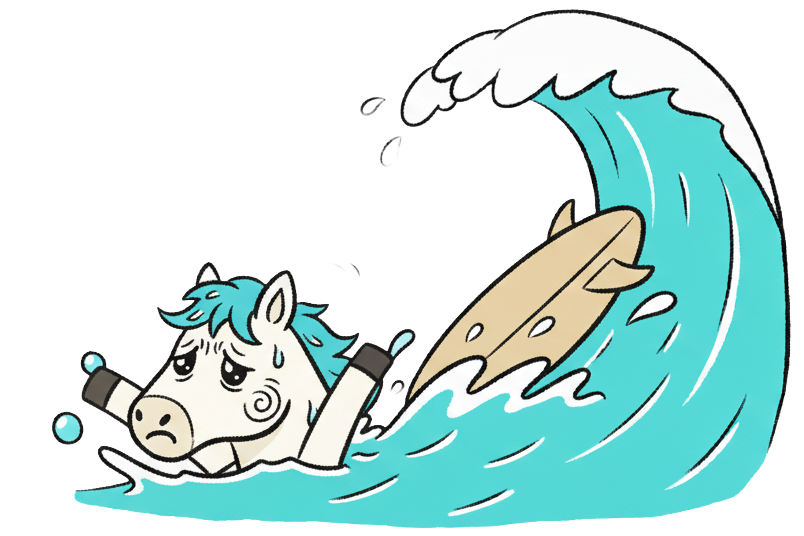
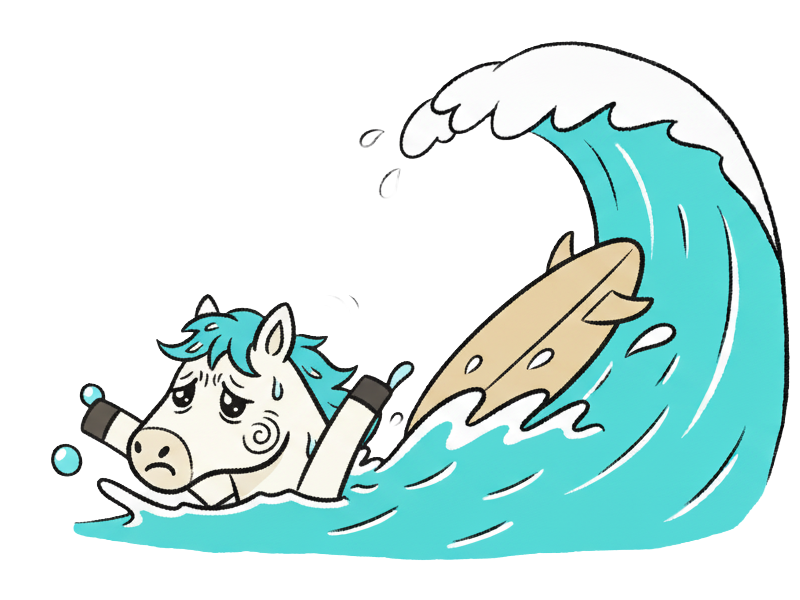
feat: update loading, error images

diff --git a/src/app/(tabs)/chapel/index.tsx b/src/app/(tabs)/chapel/index.tsx
@@ -1,6 +1,6 @@
 import { SemesterType } from '@rusaint/react-native';
 import { Image } from 'expo-image';
-import { useNavigation } from 'expo-router';
+import { Stack } from 'expo-router';
 import { useEffect, useState } from 'react';
 import { Platform, RefreshControl, ScrollView, View } from 'react-native';
 import Animated, {
@@ -11,7 +11,9 @@ import Animated, {
 import { SafeAreaView } from 'react-native-safe-area-context';
 import { StyleSheet } from 'react-native-unistyles';
 
+import emptyImage from '@/assets/empty.png';
 import errorImage from '@/assets/error.png';
+import loadingImage from '@/assets/loading.png';
 import { Attendance } from '@/components/chapel/Attendance';
 import { ChapelProgress } from '@/components/chapel/ChapelProgress';
 import { ChapelSeatmapView } from '@/components/chapel/ChapelSeatmapView';
@@ -119,7 +121,6 @@ export default function Index() {
     selectedSemester.year,
     selectedSemester.semester,
   );
-  const navigation = useNavigation();
 
   const scrollY = useSharedValue(0);
   const pullDistance = useSharedValue(0);
@@ -165,6 +166,7 @@ export default function Index() {
               <SsurfLined height={32} width={32} />
               <ThemedText typography="heading3xl">채플</ThemedText>
             </View>
+            <ThemedText typography="labelMd">{semesterToString(selectedSemester)}</ThemedText>
           </View>
           <Space gap={1} />
           <View
@@ -180,26 +182,38 @@ export default function Index() {
             {error ? (
               error.message === RUSAINT_NO_CHAPEL ? (
                 <>
+                  <Image
+                    contentFit="contain"
+                    source={emptyImage}
+                    style={{ width: 150, height: 150, marginBottom: 16 }}
+                  />
                   <ThemedText typography="headingLg">선택한 학기의 채플 정보가 없어요.</ThemedText>
                   <ThemedText typography="bodyLg">다른 학기를 선택해주세요.</ThemedText>
                 </>
               ) : (
                 <>
                   <Image
+                    contentFit="contain"
                     source={errorImage}
                     style={{ width: 150, height: 150, marginBottom: 16 }}
                   />
                   <ThemedText color="error" typography="headingLg">
-                    정보를 가져오는 중 오류가 발생했어요
+                    정보를 가져오는 중 오류가 발생했어요.
                   </ThemedText>
                   <ThemedText typography="bodyLg">아래로 당겨 다시 시도해보세요.</ThemedText>
                   <ThemedText typography="bodySm">{error.message}</ThemedText>
                 </>
               )
             ) : (
-              <ThemedText typography="bodyLg">
-                정보를 가져오는 중이에요. 잠시만 기다려주세요.
-              </ThemedText>
+              <>
+                <Image
+                  contentFit="contain"
+                  source={loadingImage}
+                  style={{ width: 150, height: 150, marginBottom: 16 }}
+                />
+                <ThemedText typography="headingLg">정보를 가져오는 중이에요.</ThemedText>
+                <ThemedText typography="bodyLg">잠시만 기다려주세요.</ThemedText>
+              </>
             )}
           </View>
         </SafeAreaView>
@@ -212,118 +226,122 @@ export default function Index() {
     SemesterType.One,
   ]);
 
-  navigation.setOptions({
-    headerShown: true,
-    headerTransparent: true,
-    title: '채플',
-    headerTitle: () => <></>,
-    headerRight: () => (
-      <SemesterSelector
-        onChange={(index) => setSelectedSemester(semesters[index])}
-        selectedIndex={semesters.findIndex(
-          (semester) =>
-            semester.year === selectedSemester.year &&
-            semester.semester === selectedSemester.semester,
-        )}
-        semesters={semesters}
-      />
-    ),
-  });
-
   return (
-    <View style={styles.root}>
-      <AnimatedScrollView
-        contentContainerStyle={styles.scrollView}
-        onScroll={scrollHandler}
-        refreshControl={
-          <RefreshControl
-            onRefresh={handleRefresh}
-            refreshing={isSyncing}
-            style={{ visibility: 'hidden' }}
-          />
-        }
-        scrollEventThrottle={16}
-      >
-        <SafeAreaView style={styles.container}>
-          {Platform.OS === 'ios' && <Space gap={2} />}
-          <View style={styles.topView}>
-            <View style={styles.titleContainer}>
-              <SsurfLined height={32} width={32} />
-              <ThemedText typography="heading3xl">채플</ThemedText>
+    <>
+      <Stack.Screen
+        options={{
+          headerShown: true,
+          headerTransparent: true,
+          title: '채플',
+          headerTitle: () => <></>,
+          headerRight: () => (
+            <SemesterSelector
+              onChange={(index) => setSelectedSemester(semesters[index])}
+              selectedIndex={semesters.findIndex(
+                (semester) =>
+                  semester.year === selectedSemester.year &&
+                  semester.semester === selectedSemester.semester,
+              )}
+              semesters={semesters}
+            />
+          ),
+        }}
+      />
+
+      <View style={styles.root}>
+        <AnimatedScrollView
+          contentContainerStyle={styles.scrollView}
+          onScroll={scrollHandler}
+          refreshControl={
+            <RefreshControl
+              onRefresh={handleRefresh}
+              refreshing={isSyncing}
+              style={{ visibility: 'hidden' }}
+            />
+          }
+          scrollEventThrottle={16}
+        >
+          <SafeAreaView style={styles.container}>
+            {Platform.OS === 'ios' && <Space gap={2} />}
+            <View style={styles.topView}>
+              <View style={styles.titleContainer}>
+                <SsurfLined height={32} width={32} />
+                <ThemedText typography="heading3xl">채플</ThemedText>
+              </View>
+              <ThemedText typography="labelMd">{semesterToString(selectedSemester)}</ThemedText>
+              <Space gap={1} />
+              <View>
+                {attendanceLeft <= 0 ? (
+                  <ThemedText color="fgPrimary" typography="headingXl">
+                    축하해요! 이번 학기 PASS했어요!
+                  </ThemedText>
+                ) : passable ? (
+                  <ThemedText typography="headingXl">
+                    <ThemedText color="successInverted" typography="headingXl">
+                      {attendanceLeft}회
+                    </ThemedText>{' '}
+                    더 출석해야 PASS할 수 있어요
+                  </ThemedText>
+                ) : (
+                  <ThemedText typography="headingXl">
+                    아쉽지만 이번 학기에는 PASS할 수 없어요
+                  </ThemedText>
+                )}
+                <Space gap={1} />
+                <ChapelProgress
+                  attendanceLeft={attendanceLeft}
+                  attendedArray={
+                    attendances
+                      ?.filter((a) => a.attendance !== '')
+                      .map((a) => a.attendance === '출석') || []
+                  }
+                  totalAttendances={totalAttendances}
+                />
+                <ThemedText style={{ alignSelf: 'flex-end' }}>
+                  {attendedCount}/{totalAttendances} 출석{' '}
+                  {absentCount > 0 ? `/ 결석 ${absentCount}회` : ''}
+                </ThemedText>
+                <ThemedText typography="bodyLg">{general.time}</ThemedText>
+              </View>
             </View>
-            <ThemedText typography="labelMd">{semesterToString(selectedSemester)}</ThemedText>
-            <Space gap={1} />
-            <View>
-              {attendanceLeft <= 0 ? (
-                <ThemedText color="fgPrimary" typography="headingXl">
-                  축하해요! 이번 학기 PASS했어요!
-                </ThemedText>
-              ) : passable ? (
-                <ThemedText typography="headingXl">
-                  <ThemedText color="successInverted" typography="headingXl">
-                    {attendanceLeft}회
-                  </ThemedText>{' '}
-                  더 출석해야 PASS할 수 있어요
-                </ThemedText>
-              ) : (
-                <ThemedText typography="headingXl">
-                  아쉽지만 이번 학기에는 PASS할 수 없어요
+            <View style={styles.cardView}>
+              <ThemedText typography="headingLg">좌석 정보</ThemedText>
+              <ThemedText typography="heading3xl">
+                {general.floor}F / {general.seat}
+              </ThemedText>
+              {general.floor && general.seat && doorDirection(general.floor, general.seat) && (
+                <ThemedText typography="headingMd">
+                  {general.floor}층{' '}
+                  <ThemedText color="primaryInverted" typography="bodyLg">
+                    {doorDirection(general.floor, general.seat)}
+                  </ThemedText>
+                  으로 들어가세요.
                 </ThemedText>
               )}
-              <Space gap={1} />
-              <ChapelProgress
-                attendanceLeft={attendanceLeft}
-                attendedArray={
-                  attendances
-                    ?.filter((a) => a.attendance !== '')
-                    .map((a) => a.attendance === '출석') || []
-                }
-                totalAttendances={totalAttendances}
-              />
-              <ThemedText style={{ alignSelf: 'flex-end' }}>
-                {attendedCount}/{totalAttendances} 출석{' '}
-                {absentCount > 0 ? `/ 결석 ${absentCount}회` : ''}
-              </ThemedText>
-              <ThemedText typography="bodyLg">{general.time}</ThemedText>
-            </View>
-          </View>
-          <View style={styles.cardView}>
-            <ThemedText typography="headingLg">좌석 정보</ThemedText>
-            <ThemedText typography="heading3xl">
-              {general.floor}F / {general.seat}
-            </ThemedText>
-            {general.floor && general.seat && doorDirection(general.floor, general.seat) && (
-              <ThemedText typography="headingMd">
-                {general.floor}층{' '}
-                <ThemedText color="primaryInverted" typography="bodyLg">
-                  {doorDirection(general.floor, general.seat)}
-                </ThemedText>
-                으로 들어가세요.
-              </ThemedText>
-            )}
 
-            <ChapelSeatmapView
-              floor={(general.floor ?? 1) as 1 | 2 | 3}
-              seat={general.seat as `${string}-${number}-${number}`}
-            />
-          </View>
-          <View style={styles.cardView}>
-            <ThemedText typography="headingLg">출석 정보</ThemedText>
-            <Space gap={0} />
-            {attendances &&
-              attendances.map((attendance) => (
-                <Attendance attendance={attendance} key={attendance.date} />
-              ))}
-          </View>
-          <Space gap={8} />
-        </SafeAreaView>
-      </AnimatedScrollView>
-      <FloatingHeader
-        label={`${general.year}-${general.semester}학기`}
-        scrollY={scrollY}
-        title="채플"
-      />
-      <RefreshHeader isSyncing={isSyncing} pullDistance={pullDistance} />
-    </View>
+              <ChapelSeatmapView
+                floor={(general.floor ?? 1) as 1 | 2 | 3}
+                seat={general.seat as `${string}-${number}-${number}`}
+              />
+            </View>
+            <View style={styles.cardView}>
+              <ThemedText typography="headingLg">출석 정보</ThemedText>
+              <Space gap={0} />
+              {attendances &&
+                attendances.map((attendance) => (
+                  <Attendance attendance={attendance} key={attendance.date} />
+                ))}
+            </View>
+            <Space gap={8} />
+          </SafeAreaView>
+        </AnimatedScrollView>
+        <FloatingHeader
+          label={`${general.year}-${general.semester}학기`}
+          scrollY={scrollY}
+          title="채플"
+        />
+        <RefreshHeader isSyncing={isSyncing} pullDistance={pullDistance} />
+      </View>
+    </>
   );
 }
